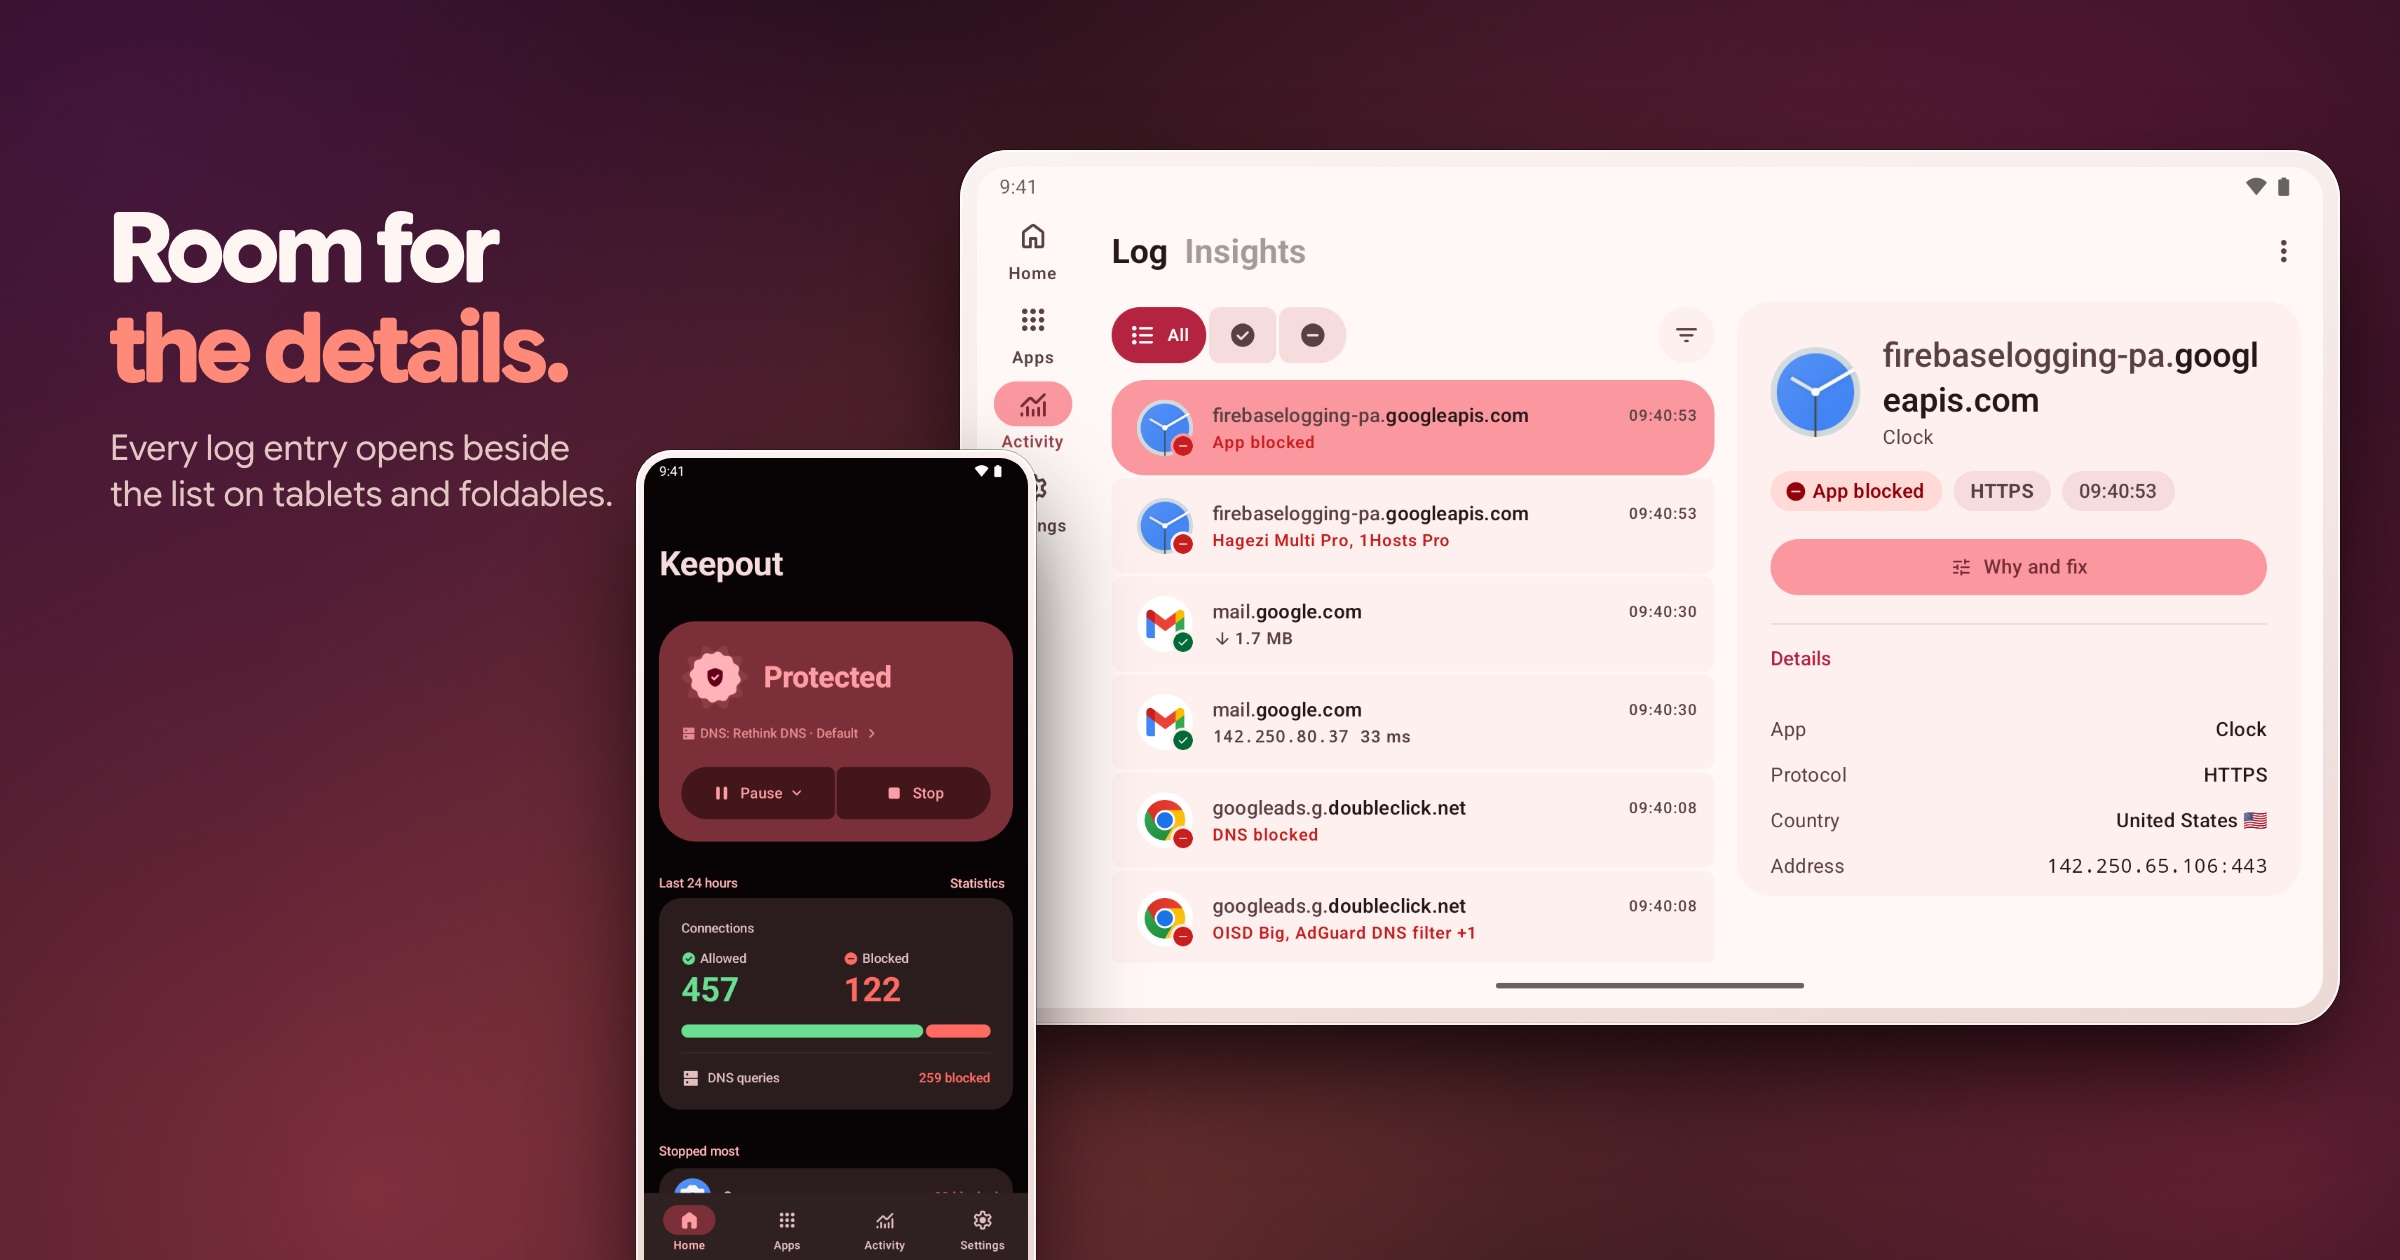
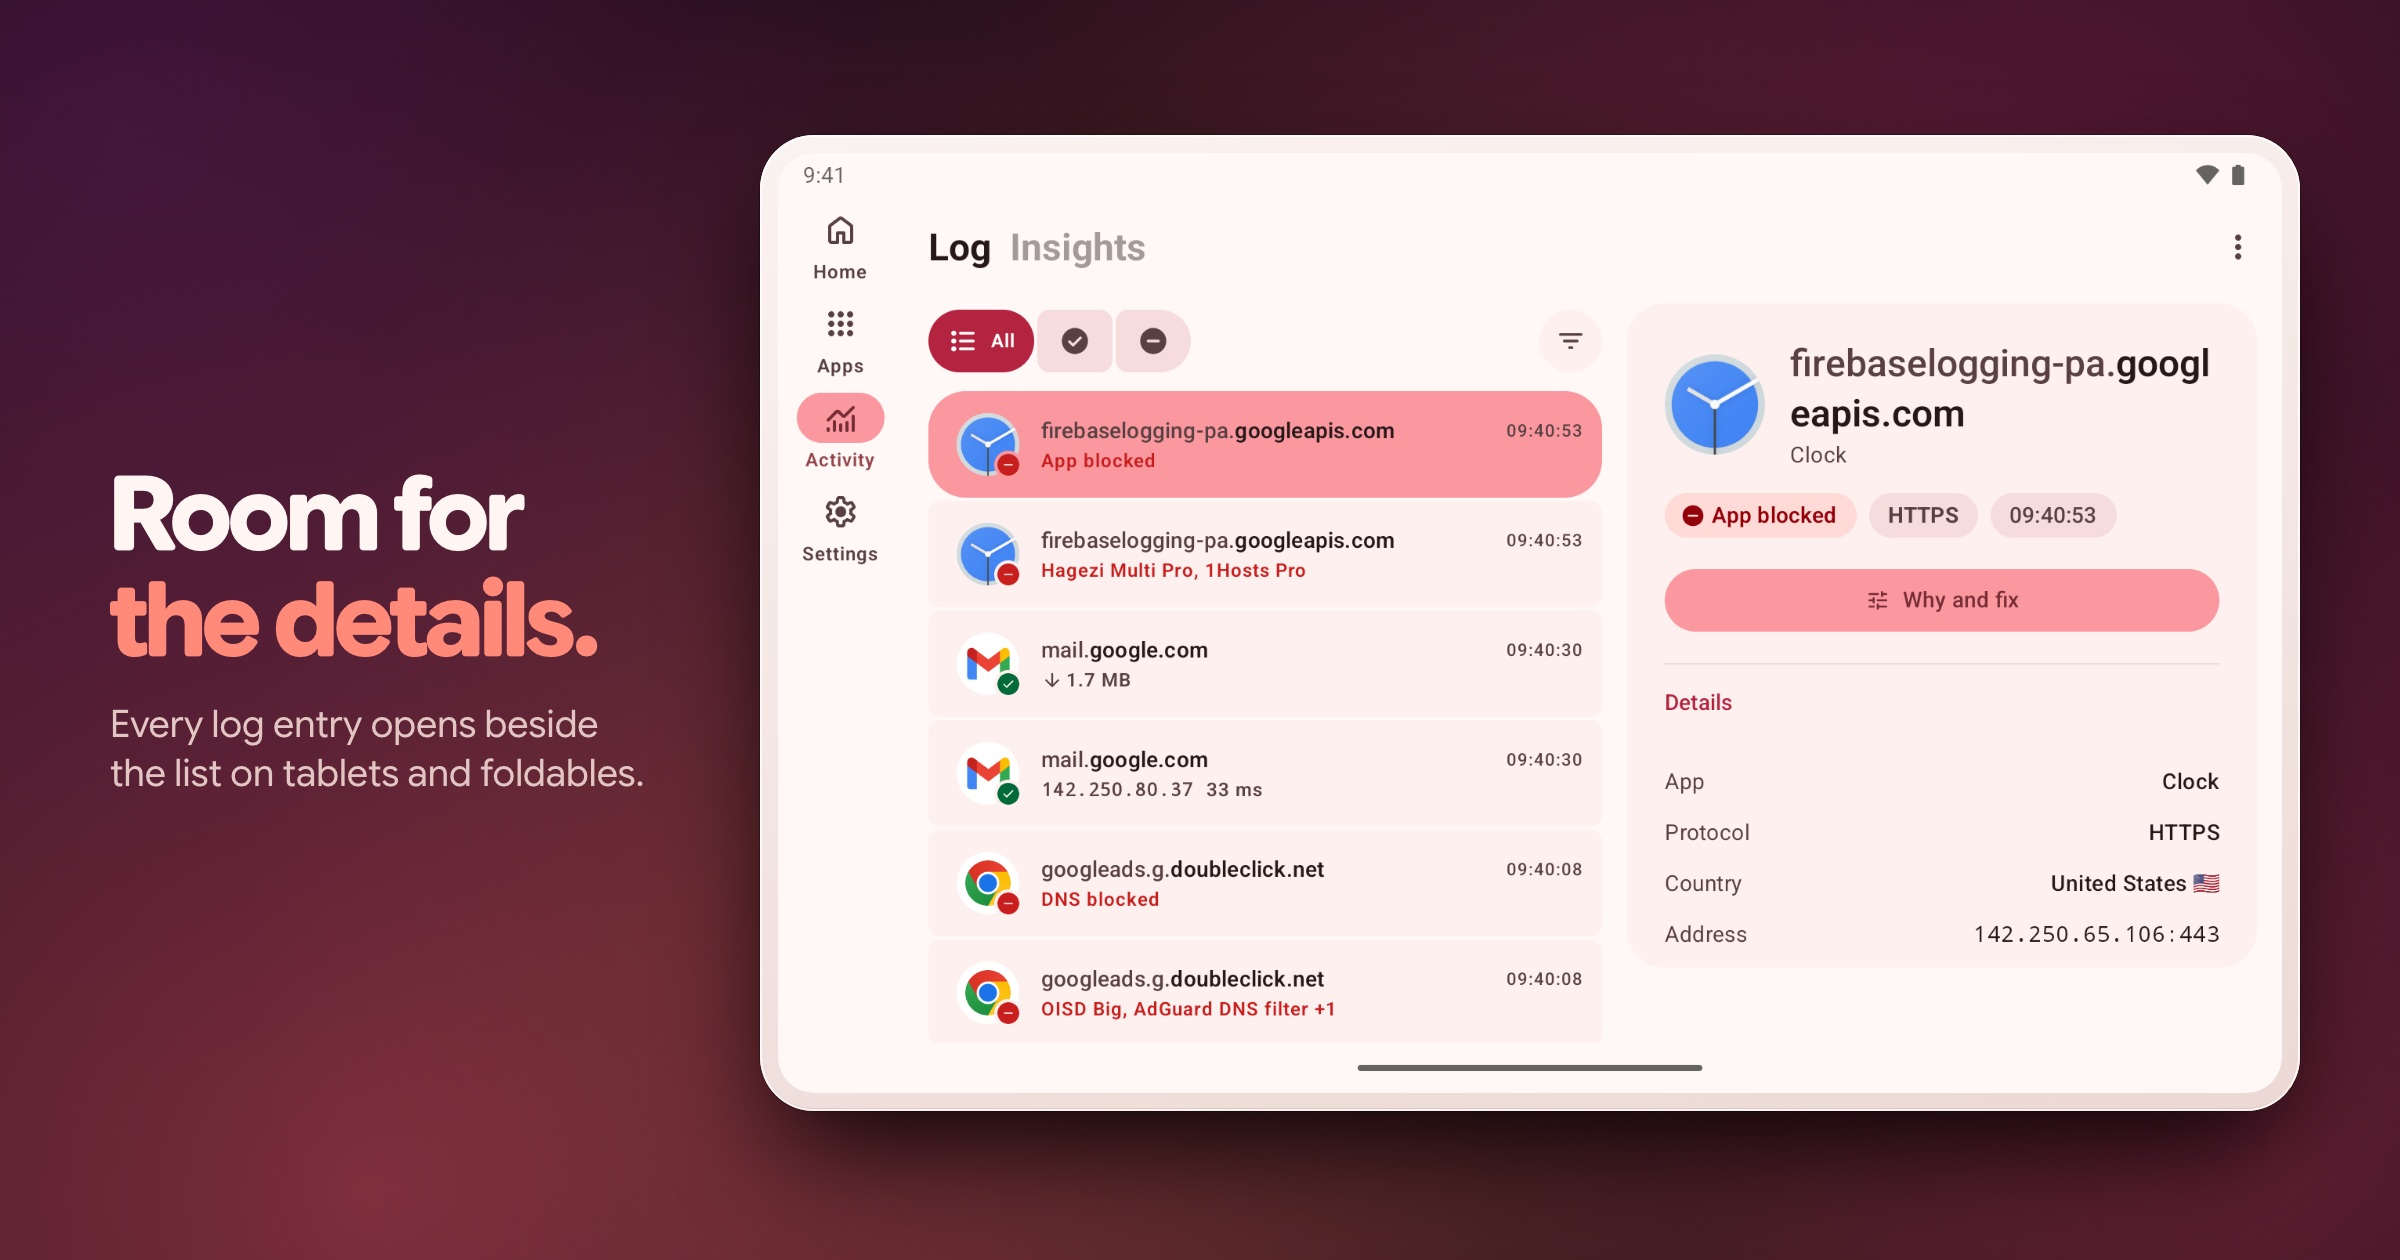
README big-screen image: one large tablet, no shrunken phone
- The phone in front sat far under the other strips' phone size and read as thin; it's gone
- The tablet grows to 1540px and the headline centres against it
- Alt text in the store copy and README drops the phone

diff --git a/store-listing/theme.css b/store-listing/theme.css
@@ -64,12 +64,12 @@ header p{margin:26px 0 0;font-size:40px;line-height:1.28;font-weight:420;color:v
 .readme .trio .three{left:1670px}
 .readme .trio .device-label{transform:translateY(calc(-100% - 24px));font-weight:560;letter-spacing:-.01em;color:var(--ink)}
 .readme .trio .device-label em{font-style:normal;color:var(--coral)}
-/* Spread: the headline on the left, a landscape tablet, and a phone in dark mode in front of it. */
-.readme .spread header{left:110px;top:200px;bottom:auto;width:640px;display:block}
+/* Spread: the headline on the left, centred against one large landscape tablet. A phone in front had to
+   shrink well under the other strips' phones to keep the tablet readable, and read as a thin toy, so it's gone. */
+.readme .spread header{left:110px;top:0;bottom:0;width:580px;display:flex;flex-direction:column;justify-content:center}
 .readme .spread h1{font-size:104px}
 .readme .spread header p{font-size:38px}
-.readme .spread .slate{left:960px;top:150px;width:1380px}
-.readme .spread .front{left:636px;top:450px;width:400px}
+.readme .spread .slate{left:760px;top:135px;width:1540px}
 /* Before and after, like the other apps: a headline, then four equal phones in two pairs, each named
    above. No panels. The original keeps a quiet frame; Keepout steps forward in coral with a warm glow. */
 .readme .compare header{left:0;right:0;top:80px;text-align:center}

diff --git a/README.md b/README.md
@@ -34,7 +34,7 @@ Keepout is a fork of [Rethink DNS + Firewall + VPN](https://github.com/celzero/r
 ## On a bigger screen
 
 <p align="center">
-  <img src="store-listing/en-US/readme/big-screen.jpg" width="100%" alt="The network log on a landscape tablet beside the details of the selected connection, and Home in dark mode on a phone in front">
+  <img src="store-listing/en-US/readme/big-screen.jpg" width="100%" alt="The network log on a landscape tablet beside the details of the selected connection">
 </p>
 
 ## Private by design
